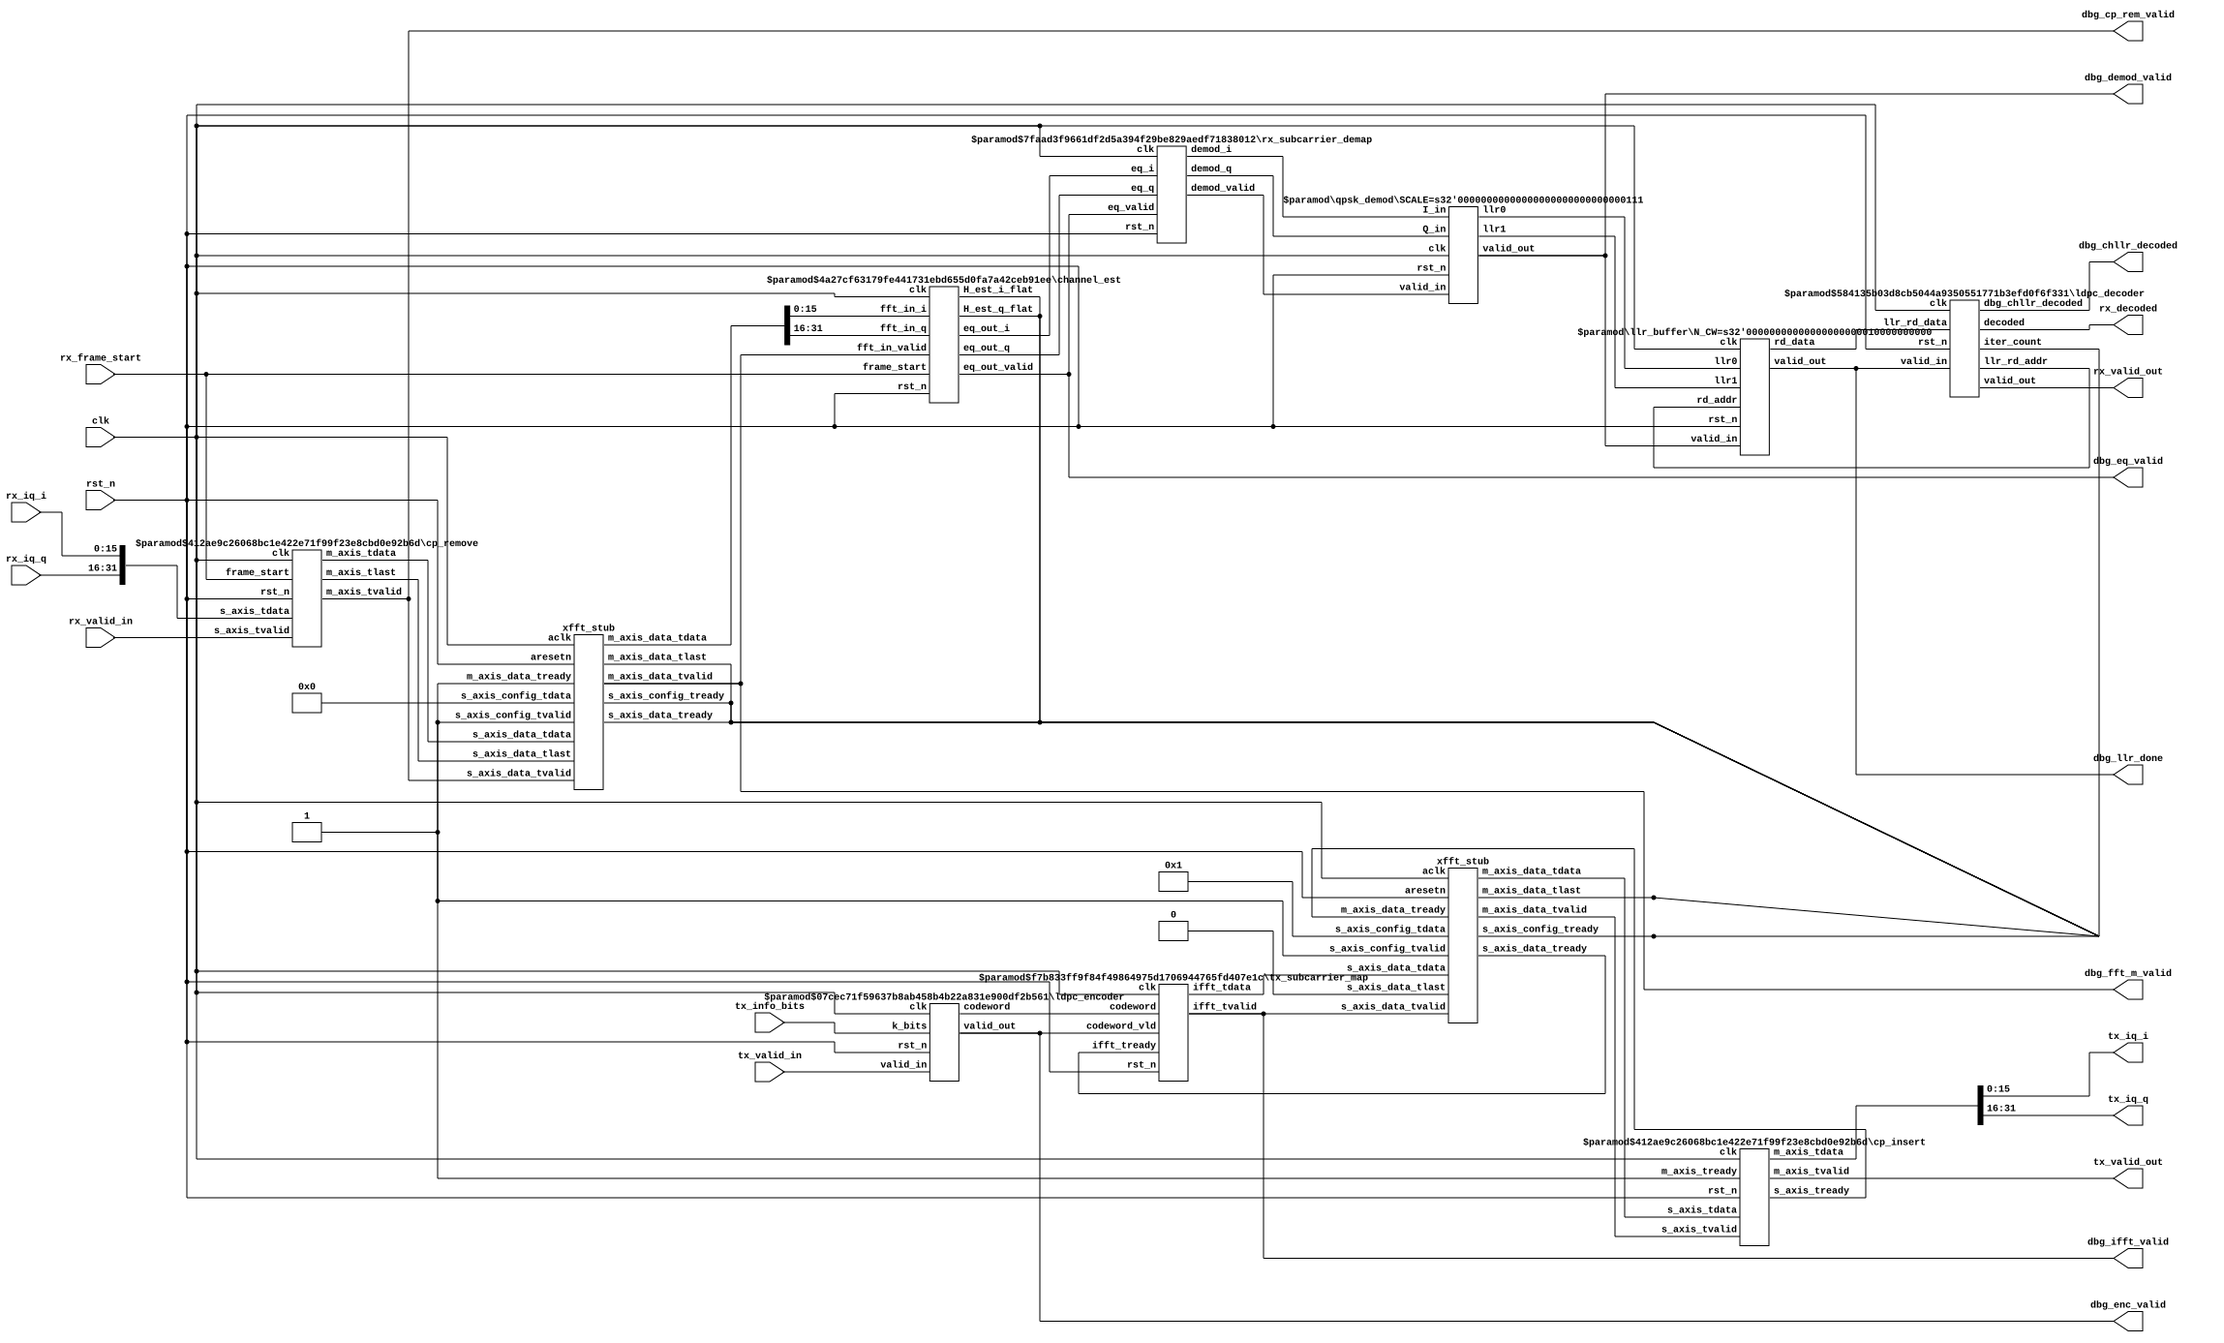
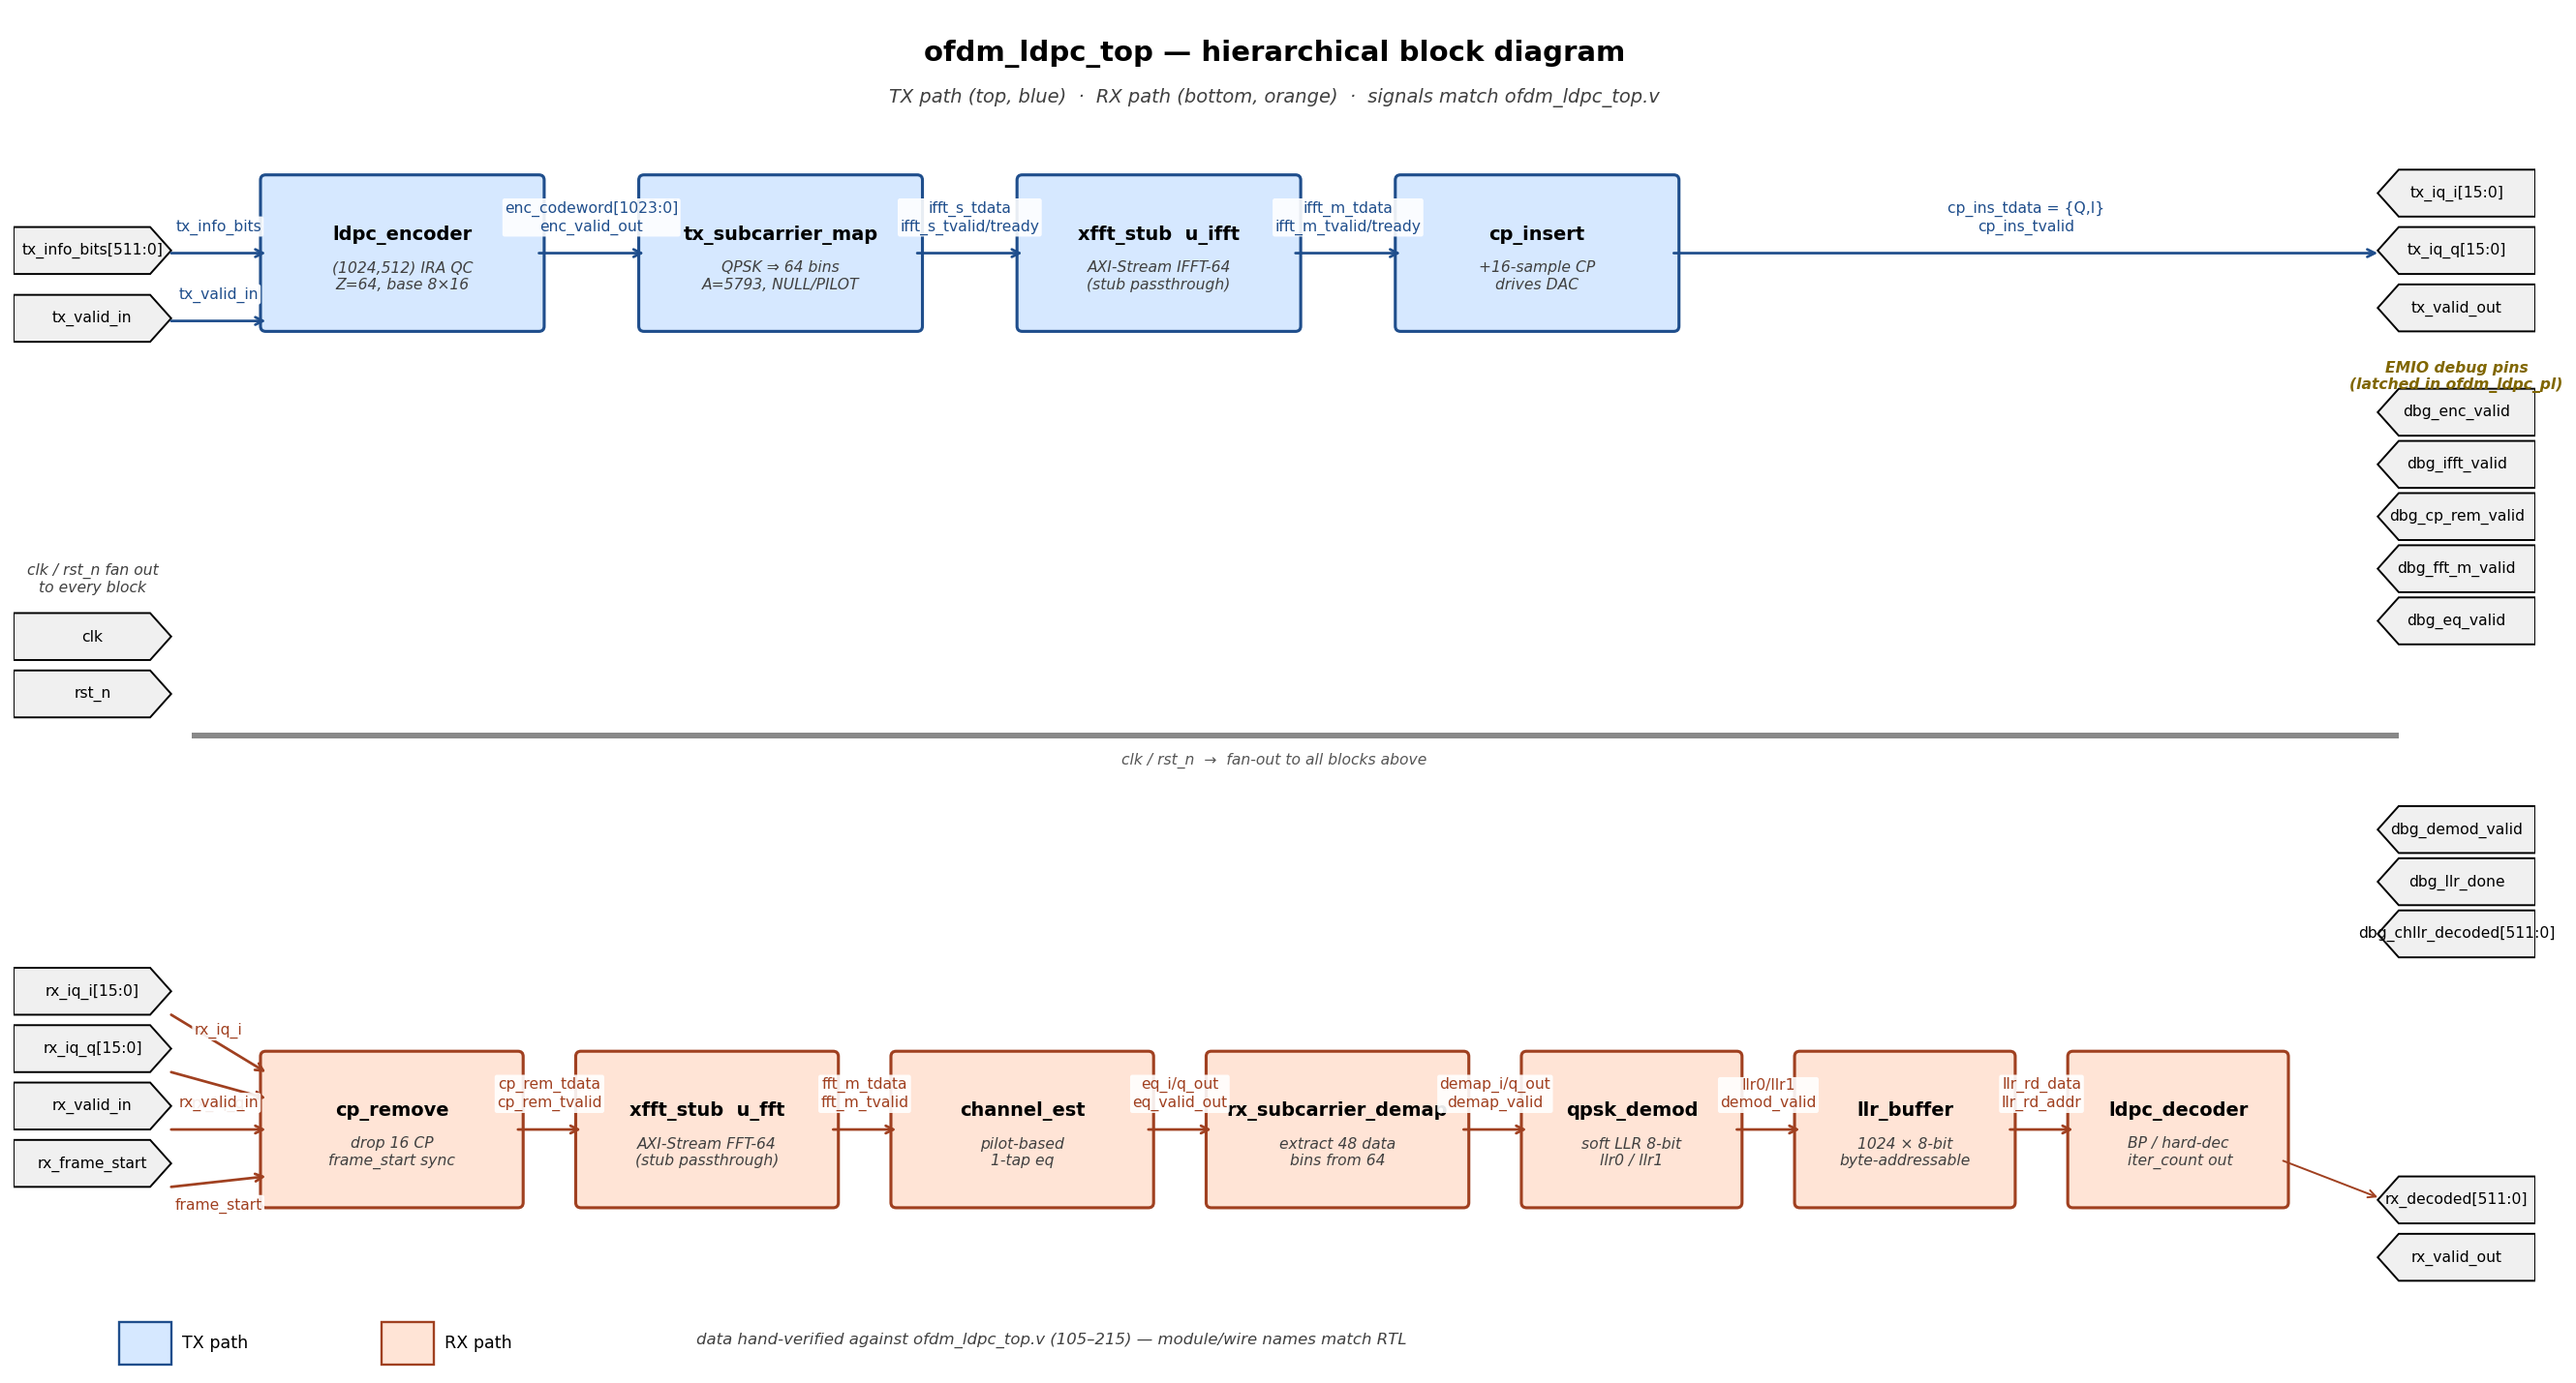
sim: replace netlistsvg spaghetti with hand-laid RTL block diagram
The yosys+netlistsvg auto-routed PNG had unreadable wire crossings,
\$paramod\$<hash>\\<name> module names, and overlapping labels. New
gen_rtl_block_clean.py draws a clean 24x13 left-to-right diagram:
- TX path (top, blue): ldpc_encoder → tx_subcarrier_map → xfft_stub
  u_ifft → cp_insert
- RX path (bottom, orange): cp_remove → xfft_stub u_fft → channel_est
  → rx_subcarrier_demap → qpsk_demod → llr_buffer → ldpc_decoder
- clk/rst_n fan-out bus visualised as a horizontal grey band
- 8 EMIO debug pins on right edge, split 5/3 around the bus
All module and wire names verified against ofdm_ldpc_top.v lines 105-215.

diff --git a/simulation/gen_rtl_block_clean.py b/simulation/gen_rtl_block_clean.py
@@ -1,0 +1,220 @@
+#!/usr/bin/env python3
+"""Hand-laid hierarchical block diagram for ofdm_ldpc_top.
+
+Replaces netlistsvg's spaghetti auto-routed output with a clean
+left-to-right TX/RX dataflow that matches the actual instantiations
+in /home/ysara/fpga_hdl/ofdm_ldpc_top.v (verified via grep).
+"""
+import matplotlib
+matplotlib.use("Agg")
+import matplotlib.pyplot as plt
+import matplotlib.patches as patches
+
+fig, ax = plt.subplots(figsize=(24, 13))
+ax.set_xlim(0, 24)
+ax.set_ylim(0, 13)
+ax.axis("off")
+
+TX_COLOR = "#D6E8FF"
+RX_COLOR = "#FFE4D6"
+CTRL_COLOR = "#E8E8E8"
+DBG_COLOR = "#FFF6CC"
+PORT_COLOR = "#F0F0F0"
+TX_BORDER = "#1f4e8c"
+RX_BORDER = "#a04020"
+WIRE_TX = "#1f4e8c"
+WIRE_RX = "#a04020"
+
+
+def block(x, y, w, h, name, sub="", color=TX_COLOR, border=TX_BORDER):
+    ax.add_patch(patches.FancyBboxPatch(
+        (x, y), w, h, boxstyle="round,pad=0.05",
+        linewidth=1.6, edgecolor=border, facecolor=color))
+    ax.text(x + w / 2, y + h / 2 + (0.18 if sub else 0),
+            name, ha="center", va="center",
+            fontsize=10, weight="bold")
+    if sub:
+        ax.text(x + w / 2, y + h / 2 - 0.22, sub,
+                ha="center", va="center", fontsize=8, color="#404040",
+                style="italic")
+
+
+def port(x, y, label, side="left"):
+    w, h = 1.5, 0.45
+    ax.add_patch(patches.Polygon(
+        [(x, y), (x + w - 0.2, y), (x + w, y + h / 2),
+         (x + w - 0.2, y + h), (x, y + h)] if side == "left" else
+        [(x + 0.2, y), (x + w, y), (x + w, y + h),
+         (x + 0.2, y + h), (x, y + h / 2)],
+        closed=True, linewidth=1.0,
+        edgecolor="black", facecolor=PORT_COLOR))
+    ax.text(x + w / 2, y + h / 2, label, ha="center",
+            va="center", fontsize=8)
+
+
+def wire(x1, y1, x2, y2, label="", color="black", lw=1.4,
+         text_y_offset=0.18, text_color=None):
+    ax.annotate("", xy=(x2, y2), xytext=(x1, y1),
+                arrowprops=dict(arrowstyle="->", color=color,
+                                lw=lw, shrinkA=0, shrinkB=0))
+    if label:
+        ax.text((x1 + x2) / 2, (y1 + y2) / 2 + text_y_offset, label,
+                ha="center", va="bottom", fontsize=8,
+                color=text_color or color,
+                bbox=dict(boxstyle="round,pad=0.15",
+                          fc="white", ec="none", alpha=0.9))
+
+
+# ===================== Title =========================
+ax.text(12, 12.55,
+        "ofdm_ldpc_top — hierarchical block diagram",
+        ha="center", fontsize=15, weight="bold")
+ax.text(12, 12.15,
+        "TX path (top, blue)  ·  RX path (bottom, orange)  "
+        "·  signals match ofdm_ldpc_top.v",
+        ha="center", fontsize=10, color="#404040", style="italic")
+
+# ===================== Left input ports =================
+port(0.0, 10.50, "tx_info_bits[511:0]")
+port(0.0,  9.85, "tx_valid_in")
+port(0.0,  3.40, "rx_iq_i[15:0]")
+port(0.0,  2.85, "rx_iq_q[15:0]")
+port(0.0,  2.30, "rx_valid_in")
+port(0.0,  1.75, "rx_frame_start")
+
+# clk/rst_n in middle-left
+port(0.0,  6.80, "clk")
+port(0.0,  6.25, "rst_n")
+ax.text(0.75, 7.45, "clk / rst_n fan out\nto every block",
+        ha="center", fontsize=8, color="#404040", style="italic")
+
+# ===================== TX chain (top row) =========================
+ty = 10.0
+block(2.4,  ty, 2.6, 1.4, "ldpc_encoder",
+      "(1024,512) IRA QC\nZ=64, base 8×16",
+      color=TX_COLOR, border=TX_BORDER)
+block(6.0,  ty, 2.6, 1.4, "tx_subcarrier_map",
+      "QPSK ⇒ 64 bins\nA=5793, NULL/PILOT",
+      color=TX_COLOR, border=TX_BORDER)
+block(9.6,  ty, 2.6, 1.4, "xfft_stub  u_ifft",
+      "AXI-Stream IFFT-64\n(stub passthrough)",
+      color=TX_COLOR, border=TX_BORDER)
+block(13.2, ty, 2.6, 1.4, "cp_insert",
+      "+16-sample CP\ndrives DAC",
+      color=TX_COLOR, border=TX_BORDER)
+
+# Right output ports for TX
+port(22.5, 11.05, "tx_iq_i[15:0]",  side="right")
+port(22.5, 10.50, "tx_iq_q[15:0]",  side="right")
+port(22.5,  9.95, "tx_valid_out",   side="right")
+
+# TX wires
+wire(1.5, 10.7, 2.4, 10.7,  "tx_info_bits", color=WIRE_TX)
+wire(1.5, 10.05, 2.4, 10.05, "tx_valid_in", color=WIRE_TX)
+wire(5.0, 10.7, 6.0, 10.7,
+     "enc_codeword[1023:0]\nenc_valid_out", color=WIRE_TX)
+wire(8.6, 10.7, 9.6, 10.7,
+     "ifft_s_tdata\nifft_s_tvalid/tready", color=WIRE_TX)
+wire(12.2, 10.7, 13.2, 10.7,
+     "ifft_m_tdata\nifft_m_tvalid/tready", color=WIRE_TX)
+wire(15.8, 10.7, 22.5, 10.7,
+     "cp_ins_tdata = {Q,I}\ncp_ins_tvalid", color=WIRE_TX)
+
+# ===================== RX chain (bottom row) =========================
+ry = 1.6
+block(2.4,  ry, 2.4, 1.4, "cp_remove",
+      "drop 16 CP\nframe_start sync",
+      color=RX_COLOR, border=RX_BORDER)
+block(5.4,  ry, 2.4, 1.4, "xfft_stub  u_fft",
+      "AXI-Stream FFT-64\n(stub passthrough)",
+      color=RX_COLOR, border=RX_BORDER)
+block(8.4,  ry, 2.4, 1.4, "channel_est",
+      "pilot-based\n1-tap eq",
+      color=RX_COLOR, border=RX_BORDER)
+block(11.4, ry, 2.4, 1.4, "rx_subcarrier_demap",
+      "extract 48 data\nbins from 64",
+      color=RX_COLOR, border=RX_BORDER)
+block(14.4, ry, 2.0, 1.4, "qpsk_demod",
+      "soft LLR 8-bit\nllr0 / llr1",
+      color=RX_COLOR, border=RX_BORDER)
+block(17.0, ry, 2.0, 1.4, "llr_buffer",
+      "1024 × 8-bit\nbyte-addressable",
+      color=RX_COLOR, border=RX_BORDER)
+block(19.6, ry, 2.0, 1.4, "ldpc_decoder",
+      "BP / hard-dec\n iter_count out",
+      color=RX_COLOR, border=RX_BORDER)
+
+# RX wires (left → right)
+wire(1.5, 3.4, 2.4, 2.85, "rx_iq_i", color=WIRE_RX, text_y_offset=0.05)
+wire(1.5, 2.85, 2.4, 2.6, "rx_iq_q", color=WIRE_RX, text_y_offset=-0.25)
+wire(1.5, 2.30, 2.4, 2.30, "rx_valid_in", color=WIRE_RX)
+wire(1.5, 1.75, 2.4, 1.85, "frame_start", color=WIRE_RX,
+     text_y_offset=-0.30)
+
+wire(4.8,  2.30, 5.4,  2.30, "cp_rem_tdata\ncp_rem_tvalid",
+     color=WIRE_RX)
+wire(7.8,  2.30, 8.4,  2.30, "fft_m_tdata\nfft_m_tvalid",
+     color=WIRE_RX)
+wire(10.8, 2.30, 11.4, 2.30, "eq_i/q_out\neq_valid_out",
+     color=WIRE_RX)
+wire(13.8, 2.30, 14.4, 2.30, "demap_i/q_out\ndemap_valid",
+     color=WIRE_RX)
+wire(16.4, 2.30, 17.0, 2.30, "llr0/llr1\ndemod_valid",
+     color=WIRE_RX)
+wire(19.0, 2.30, 19.6, 2.30, "llr_rd_data\nllr_rd_addr",
+     color=WIRE_RX)
+
+# Right output ports for RX
+port(22.5, 1.40, "rx_decoded[511:0]", side="right")
+port(22.5, 0.85, "rx_valid_out", side="right")
+wire(21.6, 2.0, 22.5, 1.65, color=WIRE_RX, lw=1.0)
+
+# ===================== clk/rst_n bus (visual hint) ===================
+ax.add_patch(patches.Rectangle(
+    (1.7, 6.05), 21.0, 0.05,
+    linewidth=0, facecolor="#888888"))
+ax.text(12.0, 5.80, "clk / rst_n  →  fan-out to all blocks above",
+        ha="center", fontsize=8, color="#555555", style="italic")
+
+# ===================== Debug pins (right side) =========================
+# Sit in the empty band between TX outputs (y≥9.95) and the clk/rst bus
+# (y=6.05). 8 ports stacked with 0.5 pitch, well clear of both rows.
+dbg_x = 22.5
+dbg_title_y = 9.40
+dbgs = [
+    (8.95, "dbg_enc_valid"),
+    (8.45, "dbg_ifft_valid"),
+    (7.95, "dbg_cp_rem_valid"),
+    (7.45, "dbg_fft_m_valid"),
+    (6.95, "dbg_eq_valid"),
+    (4.95, "dbg_demod_valid"),
+    (4.45, "dbg_llr_done"),
+    (3.95, "dbg_chllr_decoded[511:0]"),
+]
+ax.text(dbg_x + 0.75, dbg_title_y, "EMIO debug pins\n(latched in ofdm_ldpc_pl)",
+        ha="center", fontsize=8, color="#806600",
+        style="italic", weight="bold")
+for y, lab in dbgs:
+    port(dbg_x, y, lab, side="right")
+
+# Decorative legend
+legend_x = 1.0
+legend_y = 0.05
+ax.add_patch(patches.Rectangle((legend_x, legend_y),
+                               0.5, 0.4, color=TX_COLOR,
+                               ec=TX_BORDER, lw=1.2))
+ax.text(legend_x + 0.6, legend_y + 0.20, "TX path",
+        fontsize=9, va="center")
+ax.add_patch(patches.Rectangle((legend_x + 2.5, legend_y),
+                               0.5, 0.4, color=RX_COLOR,
+                               ec=RX_BORDER, lw=1.2))
+ax.text(legend_x + 3.1, legend_y + 0.20, "RX path",
+        fontsize=9, va="center")
+ax.text(legend_x + 5.5, legend_y + 0.20,
+        "data hand-verified against ofdm_ldpc_top.v "
+        "(105–215) — module/wire names match RTL",
+        fontsize=8.5, color="#404040", style="italic")
+
+out = "/home/ysara/fpga_hdl/simulation/rtl_ofdm_ldpc_top.png"
+plt.savefig(out, dpi=140, bbox_inches="tight", facecolor="white")
+print(f"Saved {out}")
